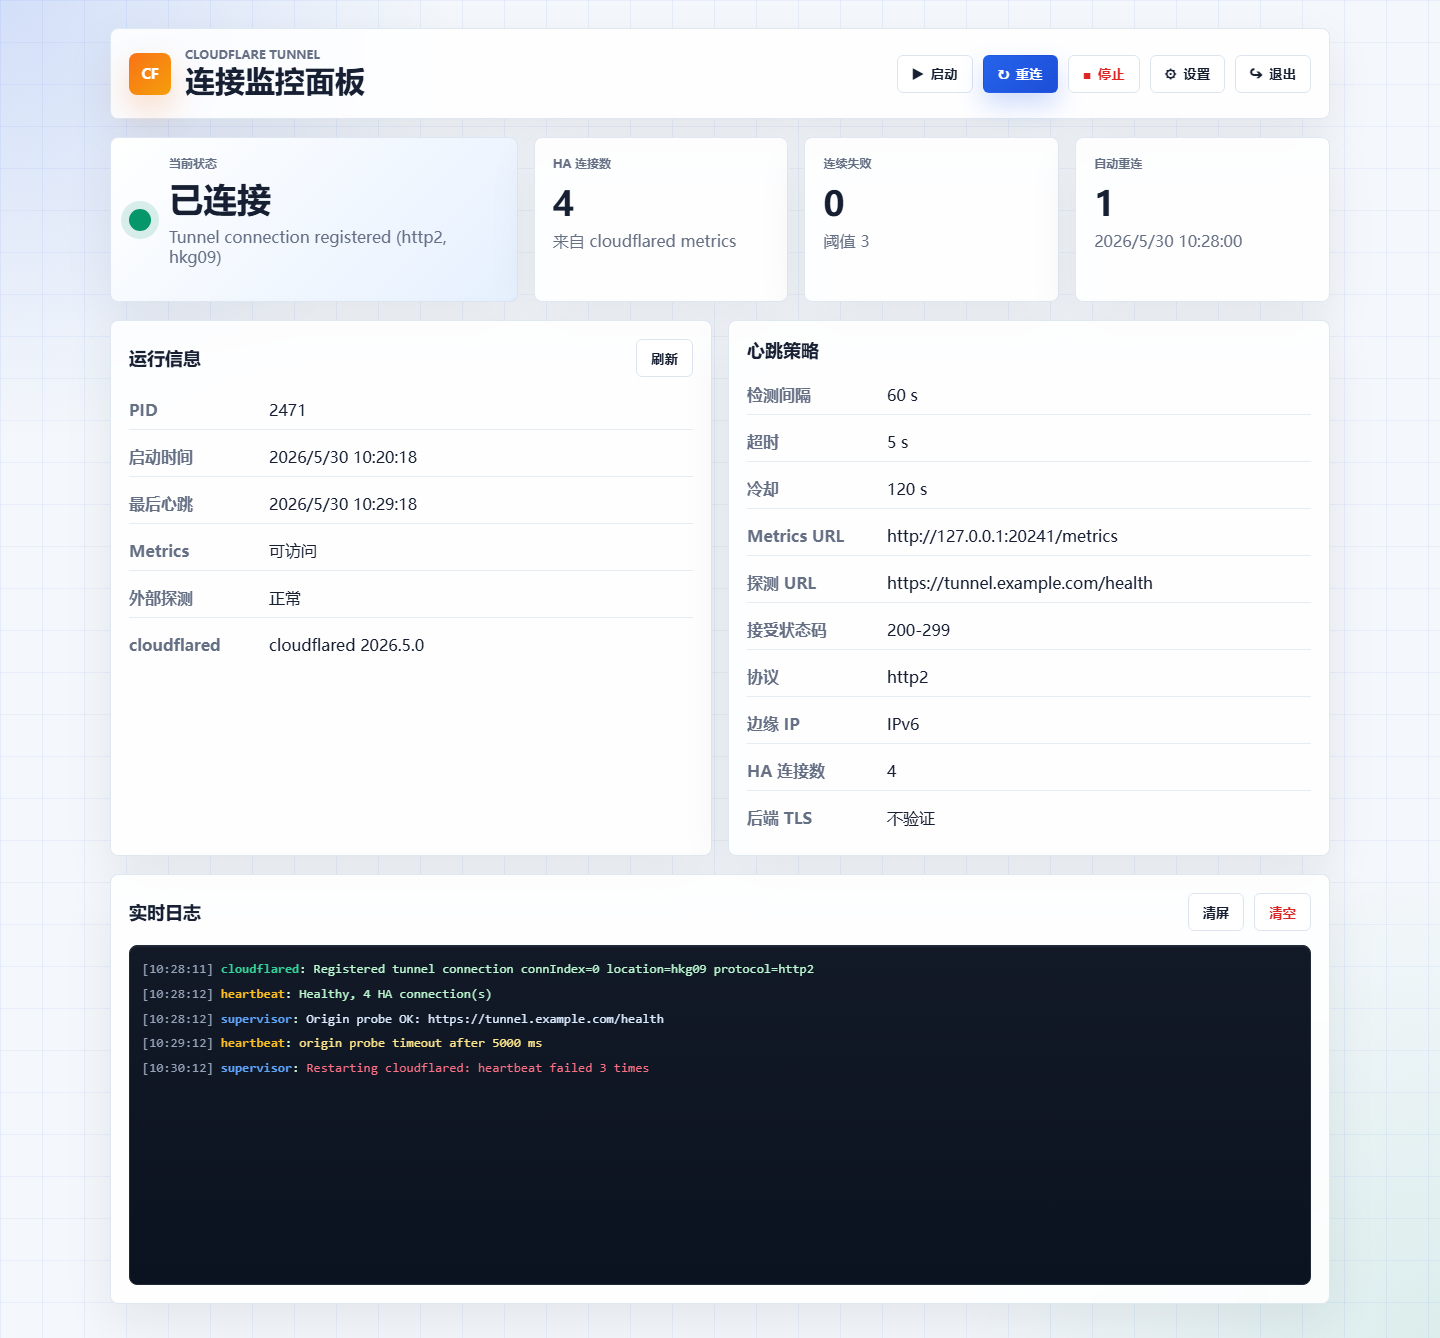
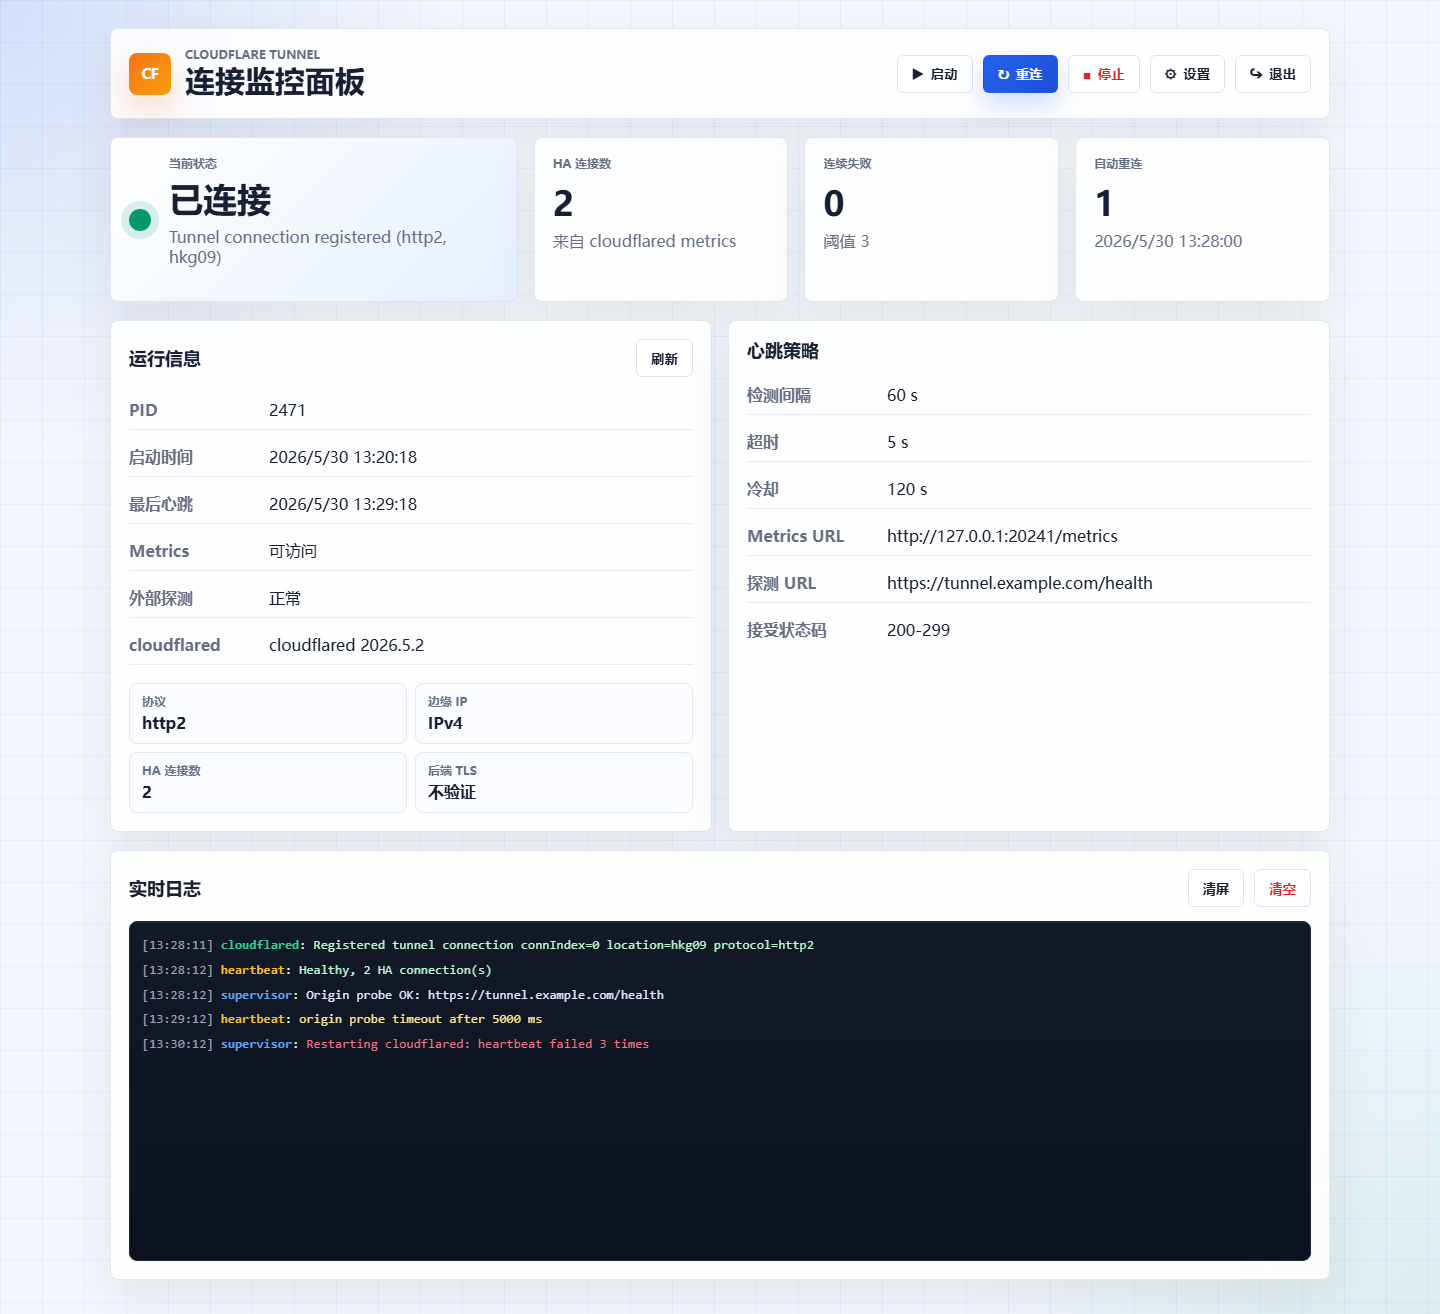
Refine restart heartbeat and info layout

diff --git a/public/styles.css b/public/styles.css
@@ -346,6 +346,32 @@ body[data-phase="misconfigured"] .dot {
   border-bottom: 0;
 }
 
+.connection-options {
+  display: grid !important;
+  grid-template-columns: repeat(2, minmax(0, 1fr)) !important;
+  gap: 8px !important;
+  padding: 10px 0 0 !important;
+  border-bottom: 0 !important;
+}
+
+.connection-options > div {
+  display: block !important;
+  min-width: 0;
+  padding: 10px 12px !important;
+  border: 1px solid rgba(220, 228, 239, 0.78) !important;
+  border-radius: 8px;
+  background: rgba(248, 251, 255, 0.78);
+}
+
+.connection-options dt {
+  margin-bottom: 4px;
+  font-size: 12px;
+}
+
+.connection-options dd {
+  font-weight: 900;
+}
+
 dt {
   color: var(--muted);
   font-weight: 900;

diff --git a/src/server.js b/src/server.js
@@ -62,6 +62,7 @@ let stoppingForRestart = false;
 let manualStop = false;
 let heartbeatTimer = null;
 let reconnectTimer = null;
+let suppressHeartbeatUntil = 0;
 
 function toInt(value, fallback) {
   const parsed = Number.parseInt(value, 10);
@@ -395,6 +396,7 @@ function appendProcessLog(source, chunk) {
 
 function handleCloudflaredSignal(line) {
   if (/Registered tunnel connection|connection .*registered/i.test(line)) {
+    suppressHeartbeatUntil = 0;
     const protocol = line.match(/protocol=([^\s]+)/i)?.[1];
     const location = line.match(/location=([^\s]+)/i)?.[1];
     const details = [protocol, location].filter(Boolean).join(', ');
@@ -438,6 +440,7 @@ function restartTunnel(reason = 'manual restart') {
   state.lastRestartAt = now();
   stoppingForRestart = true;
   manualStop = false;
+  suppressHeartbeatUntil = Date.now() + Math.max(10000, runtimeConfig.heartbeatTimeoutMs * 2);
   setState({ phase: 'restarting', message: `Restarting: ${reason}` });
   addLog('supervisor', `Restarting cloudflared: ${reason}`);
   if (cloudflared) {
@@ -481,6 +484,17 @@ async function heartbeat() {
       originOk: runtimeConfig.originProbeUrl ? false : null,
       message: stoppedMessage
     });
+    return;
+  }
+
+  if (Date.now() < suppressHeartbeatUntil) {
+    if (state.phase !== 'restarting') {
+      setState({
+        phase: 'restarting',
+        consecutiveFailures: 0,
+        message: 'Restarting: waiting for cloudflared to reconnect'
+      });
+    }
     return;
   }
 

diff --git a/public/index.html b/public/index.html
@@ -76,6 +76,12 @@
             <div><dt>Metrics</dt><dd id="metrics">--</dd></div>
             <div><dt>外部探测</dt><dd id="origin">未配置</dd></div>
             <div><dt>cloudflared</dt><dd id="version">--</dd></div>
+            <div class="connection-options">
+              <div><dt>协议</dt><dd id="protocol">--</dd></div>
+              <div><dt>边缘 IP</dt><dd id="edge-ip">--</dd></div>
+              <div><dt>HA 连接数</dt><dd id="ha-config">--</dd></div>
+              <div><dt>后端 TLS</dt><dd id="tls-verify">--</dd></div>
+            </div>
           </dl>
         </article>
 
@@ -90,10 +96,6 @@
             <div><dt>Metrics URL</dt><dd id="metrics-url">--</dd></div>
             <div><dt>探测 URL</dt><dd id="probe-url">--</dd></div>
             <div><dt>接受状态码</dt><dd id="accept-status">--</dd></div>
-            <div><dt>协议</dt><dd id="protocol">--</dd></div>
-            <div><dt>边缘 IP</dt><dd id="edge-ip">--</dd></div>
-            <div><dt>HA 连接数</dt><dd id="ha-config">--</dd></div>
-            <div><dt>后端 TLS</dt><dd id="tls-verify">--</dd></div>
           </dl>
         </article>
       </section>